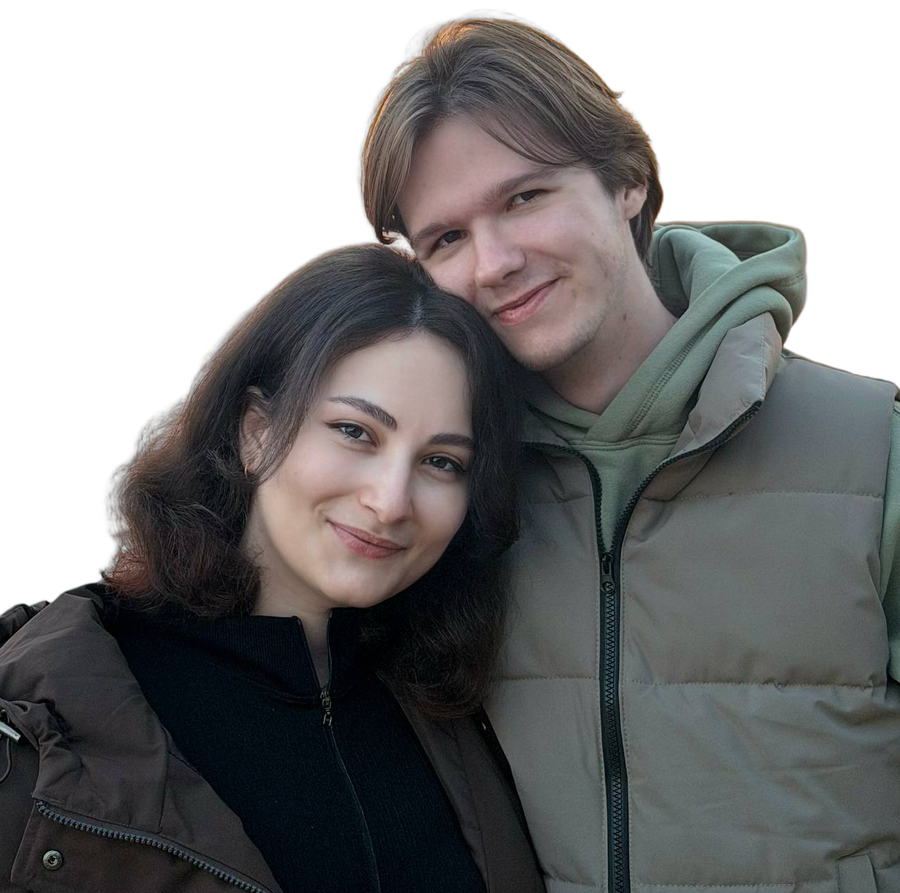
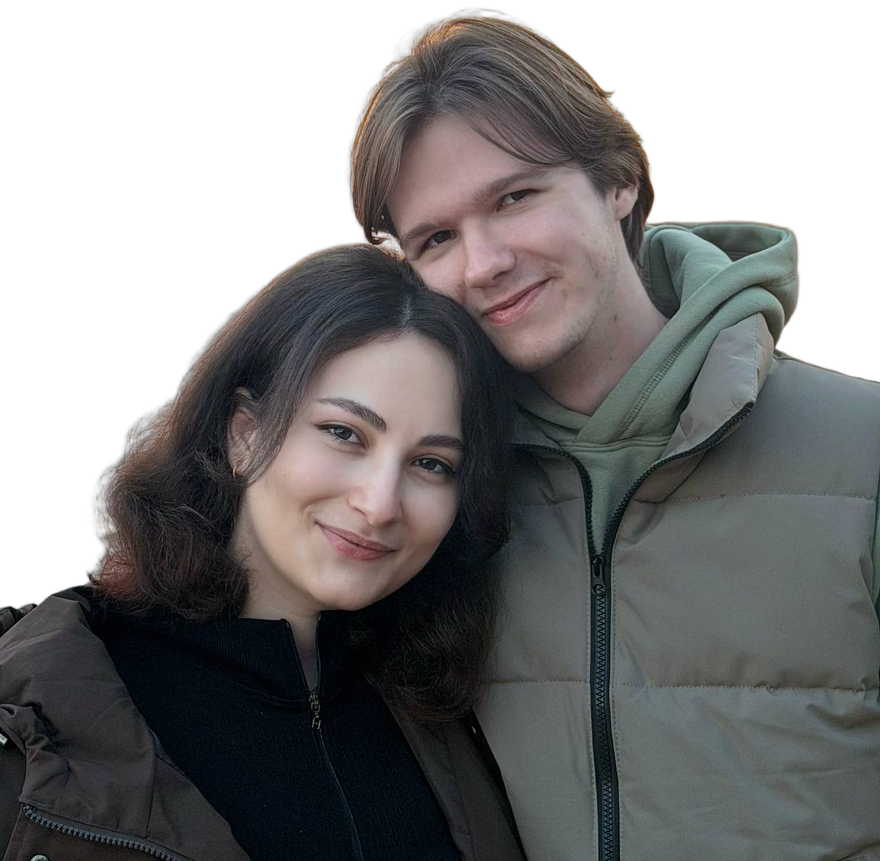
Show the couple as a frameless silhouette cutout
Remove the polaroid frame and use a transparent silhouette above the skyline.

diff --git a/src/styles/components.css b/src/styles/components.css
@@ -283,50 +283,28 @@
   width: min(58vw, 230px);
   margin: 1rem auto 0.2rem;
   padding: 0;
-  rotate: -2.5deg;
 }
 .hero__portrait--skyline {
   position: absolute;
   left: 50%;
-  bottom: 72px;
+  bottom: 48px;
   z-index: 4;
-  width: min(46vw, 180px);
+  width: min(52vw, 210px);
   margin: 0;
   translate: -50% 0;
-  rotate: -3deg;
 }
-.hero__portrait-frame {
-  position: relative;
-  padding: 9px 9px 30px;
-  background: #fffdf8;
-  box-shadow:
-    0 16px 34px rgba(18, 63, 58, 0.2),
-    0 1px 0 rgba(255, 255, 255, 0.8) inset;
+.hero__portrait--cutout {
+  background: transparent;
+  filter: drop-shadow(0 14px 24px rgba(18, 63, 58, 0.28));
 }
-.hero__portrait-frame::before {
-  content: '15.08.2027';
-  position: absolute;
-  left: 0;
-  right: 0;
-  bottom: 8px;
-  font-family: var(--font-script);
-  font-size: 0.95rem;
-  line-height: 1;
-  text-align: center;
-  color: #6b2737;
-  pointer-events: none;
-}
-.hero__portrait-img {
+.hero__portrait--cutout .hero__portrait-img {
   display: block;
   width: 100%;
   height: auto;
-  aspect-ratio: 1 / 1.02;
   object-fit: contain;
   object-position: center bottom;
-  background:
-    radial-gradient(circle at 50% 30%, rgba(232, 220, 192, 0.45), transparent 55%),
-    linear-gradient(180deg, #e8dcc0 0%, #f4eee4 100%);
-  filter: saturate(1.05) contrast(1.03);
+  background: transparent;
+  filter: saturate(1.04) contrast(1.03);
 }
 .hero--scene .hero__names {
   display: flex;

diff --git a/src/components/sections/HeroSection.vue b/src/components/sections/HeroSection.vue
@@ -41,10 +41,8 @@ const code: Tok[][] = [
         <p class="hero__date hero-in" style="--d: 0.5s">{{ dateShort }}</p>
         <p class="hero__city hero-in" style="--d: 0.65s">{{ city }}</p>
       </div>
-      <figure class="hero__portrait hero__portrait--skyline hero-in" style="--d: 0.75s">
-        <div class="hero__portrait-frame">
-          <img class="hero__portrait-img" :src="coupleImg" :alt="`${groom.full} и ${bride.full}`" />
-        </div>
+      <figure class="hero__portrait hero__portrait--cutout hero__portrait--skyline hero-in" style="--d: 0.75s">
+        <img class="hero__portrait-img" :src="coupleImg" :alt="`${groom.full} и ${bride.full}`" />
       </figure>
       <Skyline class="hero__skyline" water />
       <div class="hero__scroll" aria-hidden="true">

diff --git a/src/styles/themes-interactive.css b/src/styles/themes-interactive.css
@@ -454,7 +454,8 @@
   font-size: 2.55rem;
 }
 .theme-meet .hero__portrait--skyline {
-  bottom: 58px;
+  bottom: 42px;
+  width: min(54vw, 220px);
 }
 .theme-meet .btn {
   border-radius: 12px;
